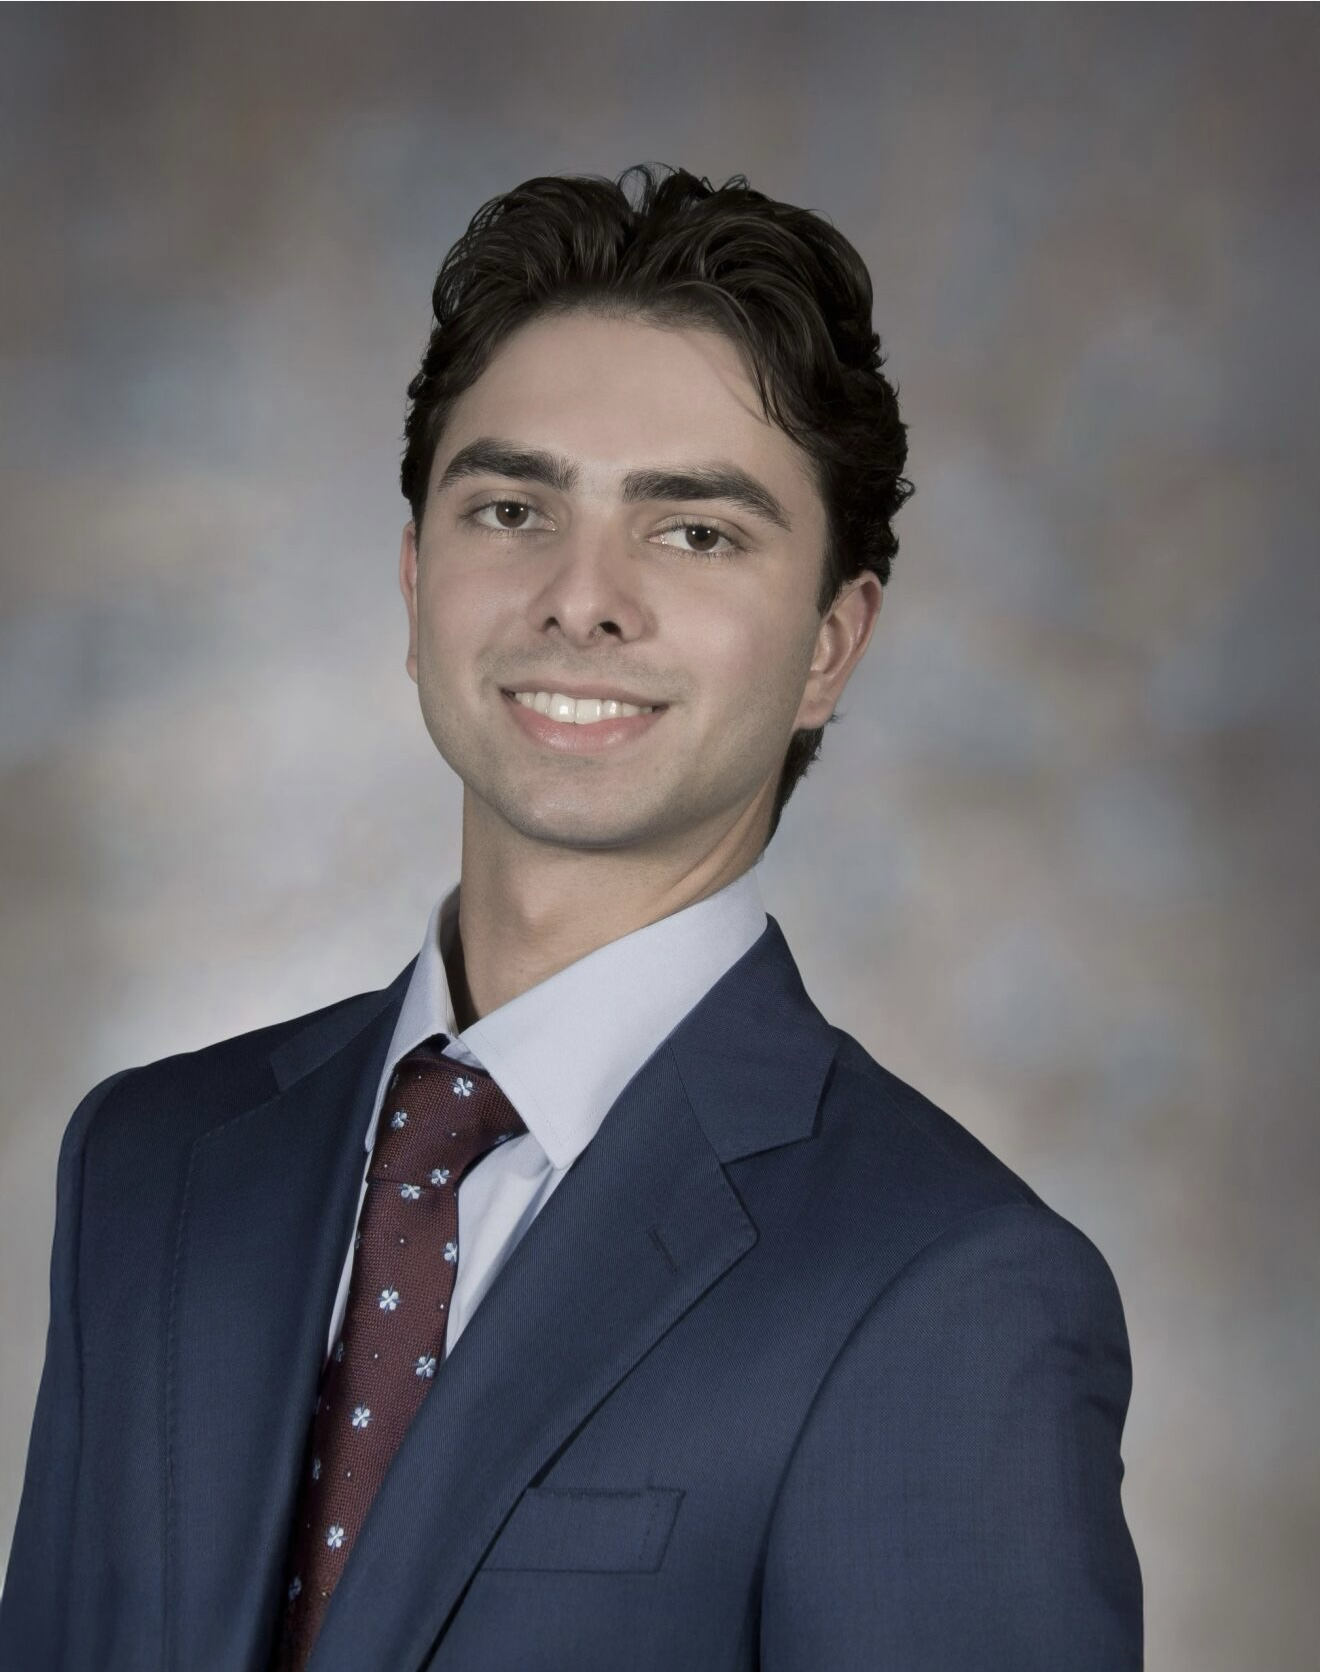
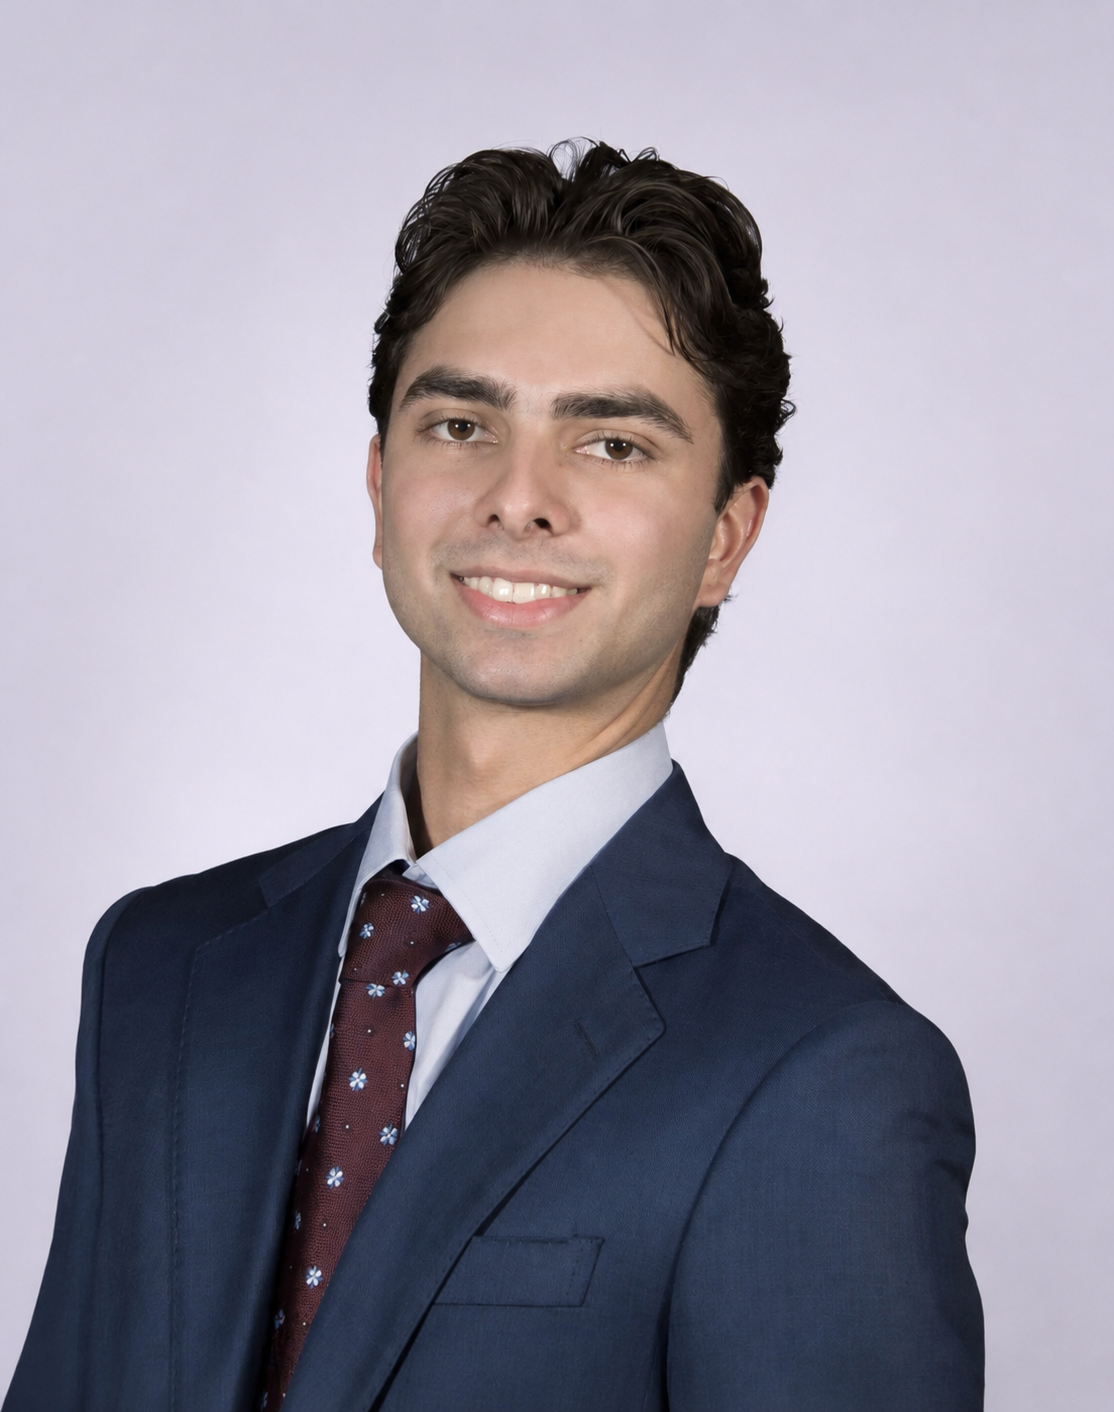
feat: green page titles, better-cropped headshots for 5 team members
- PageHero: add optional titleColor prop (defaults to the existing black),
  used by Solutions, Archive, People, and Method pages to render their H1
  in Miami Green instead -- Contact's title stays black since it wasn't
  part of this request.
- Swap in higher-resolution, better-framed headshots for Dominika Pindor,
  Kiran Reynolds, Krishen Goswami, Sylvie Vu, and Taylor Dutil so their
  faces aren't cropped at the top on the People page.

diff --git a/components/ui/PageHero.tsx b/components/ui/PageHero.tsx
@@ -8,12 +8,13 @@ import { MetaStrip, MetaStripItem } from "./MetaStrip";
 interface PageHeaderProps {
   eyebrow: string;
   title: ReactNode;
+  titleColor?: "ink" | "green";
   subtitle?: string;
   meta?: MetaStripItem[];
   sidecar?: ReactNode;
 }
 
-export function PageHeader({ eyebrow, title, subtitle, meta, sidecar }: PageHeaderProps) {
+export function PageHeader({ eyebrow, title, titleColor = "ink", subtitle, meta, sidecar }: PageHeaderProps) {
   return (
     <>
       <div className="pt-[72px]">
@@ -47,7 +48,11 @@ export function PageHeader({ eyebrow, title, subtitle, meta, sidecar }: PageHead
                 {eyebrow}
               </span>
             </div>
-            <h1 className="text-[60px] sm:text-[80px] md:text-[96px] lg:text-[100px] font-black tracking-[-0.045em] leading-[0.9] text-ink">
+            <h1
+              className={`text-[60px] sm:text-[80px] md:text-[96px] lg:text-[100px] font-black tracking-[-0.045em] leading-[0.9] ${
+                titleColor === "green" ? "text-um-green" : "text-ink"
+              }`}
+            >
               {title}
             </h1>
             {subtitle && (

diff --git a/app/projects/page.tsx b/app/projects/page.tsx
@@ -64,6 +64,7 @@ export default function ProjectsPage() {
     <>
       <PageHeader
         eyebrow="Archive · Every project"
+        titleColor="green"
         title={<>The archive.</>}
         subtitle="Nine real partnerships across financial services, digital health, live events, sports analytics, food & beverage, and more. Every entry shipped a working artifact to a real client — not a deck."
         meta={meta}

diff --git a/app/tracks/page.tsx b/app/tracks/page.tsx
@@ -49,6 +49,7 @@ export default function TracksPage() {
     <>
       <PageHeader
         eyebrow="Capability Solutions · Five chapters"
+        titleColor="green"
         title={
           <span className="block text-[40px] sm:text-[54px] md:text-[64px] lg:text-[66px]">
             Five digital solutions,<br />

diff --git a/app/team/page.tsx b/app/team/page.tsx
@@ -66,6 +66,7 @@ export default function TeamPage() {
     <>
       <PageHeader
         eyebrow="People · Directors & Coaches"
+        titleColor="green"
         title={
           <>
             The people<br />behind <span className="text-um-orange-text italic font-black">the file.</span>

diff --git a/app/about/page.tsx b/app/about/page.tsx
@@ -19,6 +19,7 @@ export default function AboutPage() {
     <>
       <PageHeader
         eyebrow="Method · The Miami Three-Phase Model"
+        titleColor="green"
         title={
           <>
             A different kind of<br />experiential learning.
